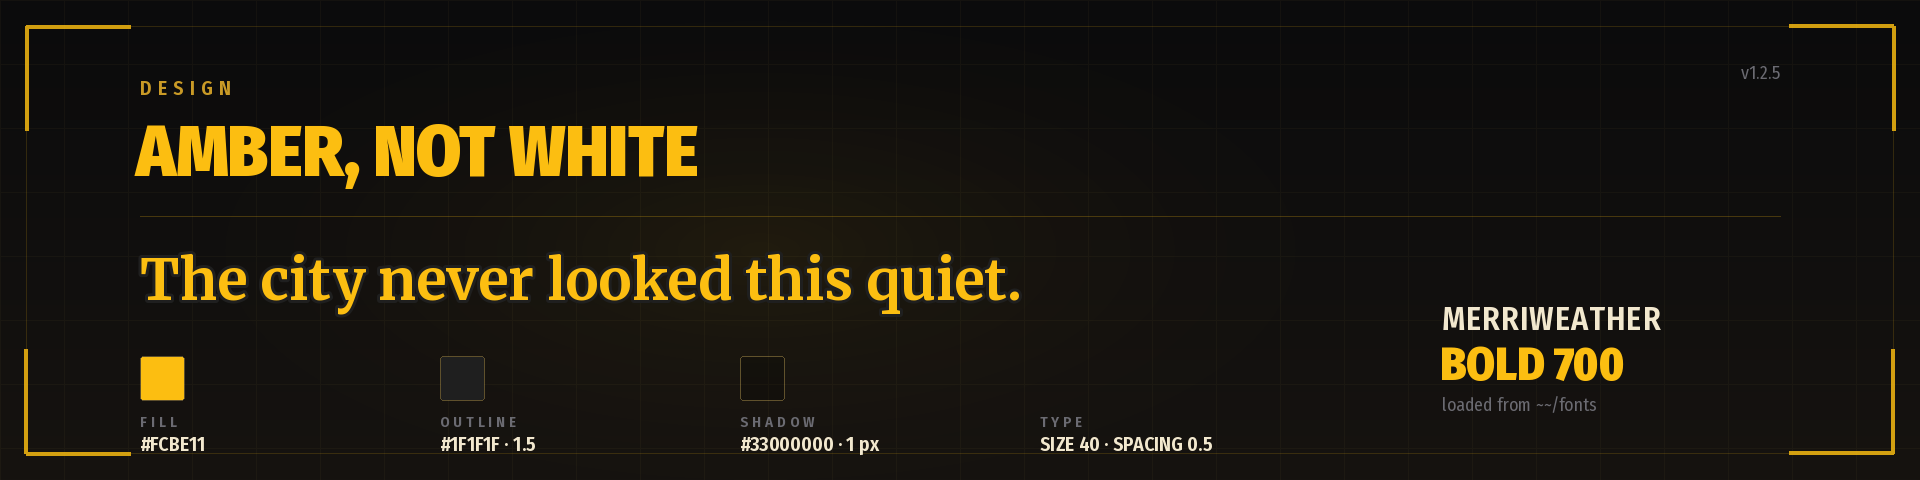
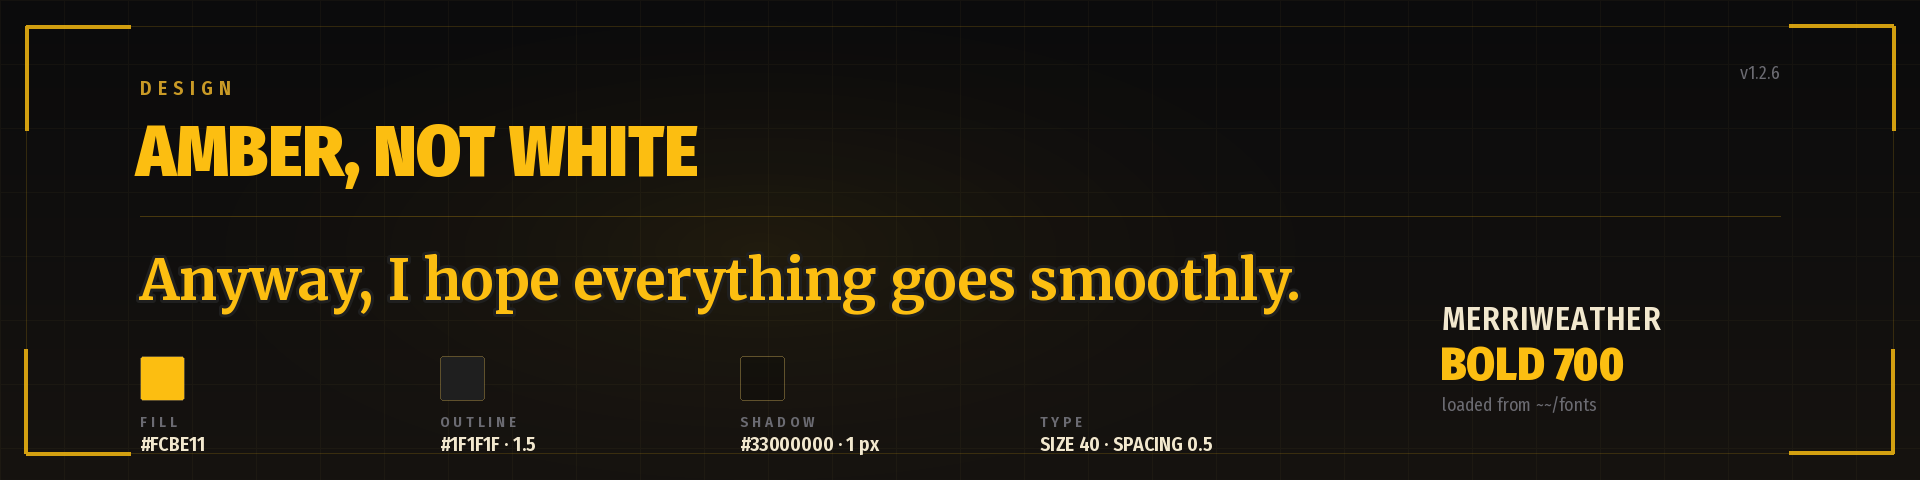
docs: change the design specimen line
The design banner now shows "Anyway, I hope everything goes smoothly."
instead of "The city never looked this quiet." The Merriweather specimen
keeps its size, colour, outline and position, and still fits left of the
type panel.

Regenerate the banners for 1.2.6.

Changed region(s): [[0.0625, 0.5312, 0.6875, 0.6562], [0.9062, 0.125, 0.9375, 0.1562]]

diff --git a/assets/banner.py b/assets/banner.py
@@ -191,7 +191,7 @@ def design(path, version):
     d.text((136, 108), "AMBER, NOT WHITE", font=font("heavy", 72), fill=AMBER)
 
     merri = ImageFont.truetype(str(HERE.parent / "fonts" / "Merriweather-Bold.ttf"), 56)
-    d.text((140, 244), "The city never looked this quiet.",
+    d.text((140, 244), "Anyway, I hope everything goes smoothly.",
            font=merri, fill=AMBER, stroke_width=3, stroke_fill=(31, 31, 31))
 
     x = 140
@@ -227,7 +227,7 @@ def strip(path, kicker, title, detail):
 def main():
     p = argparse.ArgumentParser()
     p.add_argument("--out", type=Path, default=HERE)
-    p.add_argument("--version", default="v1.2.5")
+    p.add_argument("--version", default="v1.2.6")
     a = p.parse_args()
     a.out.mkdir(parents=True, exist_ok=True)
     hero(a.out / "banner.png", a.version)

diff --git a/CHANGELOG.md b/CHANGELOG.md
@@ -1,5 +1,9 @@
 # Changelog
 
+## 1.2.6 — 2026-11-17
+
+- **Docs (design):** the specimen line in `assets/design.png` now reads "Anyway, I hope everything goes smoothly." instead of "The city never looked this quiet." Same size, colour, outline and position; the banners are regenerated for 1.2.6.
+
 ## 1.2.5 — 2026-11-16
 
 - **Fixed:** the arrow keys seek exactly. `←`/`→` move 5 s and `↑`/`↓` 60 s instead of landing on the nearest keyframe, which made a 5 s seek jump 8 s or more on sparse-keyframe files.
